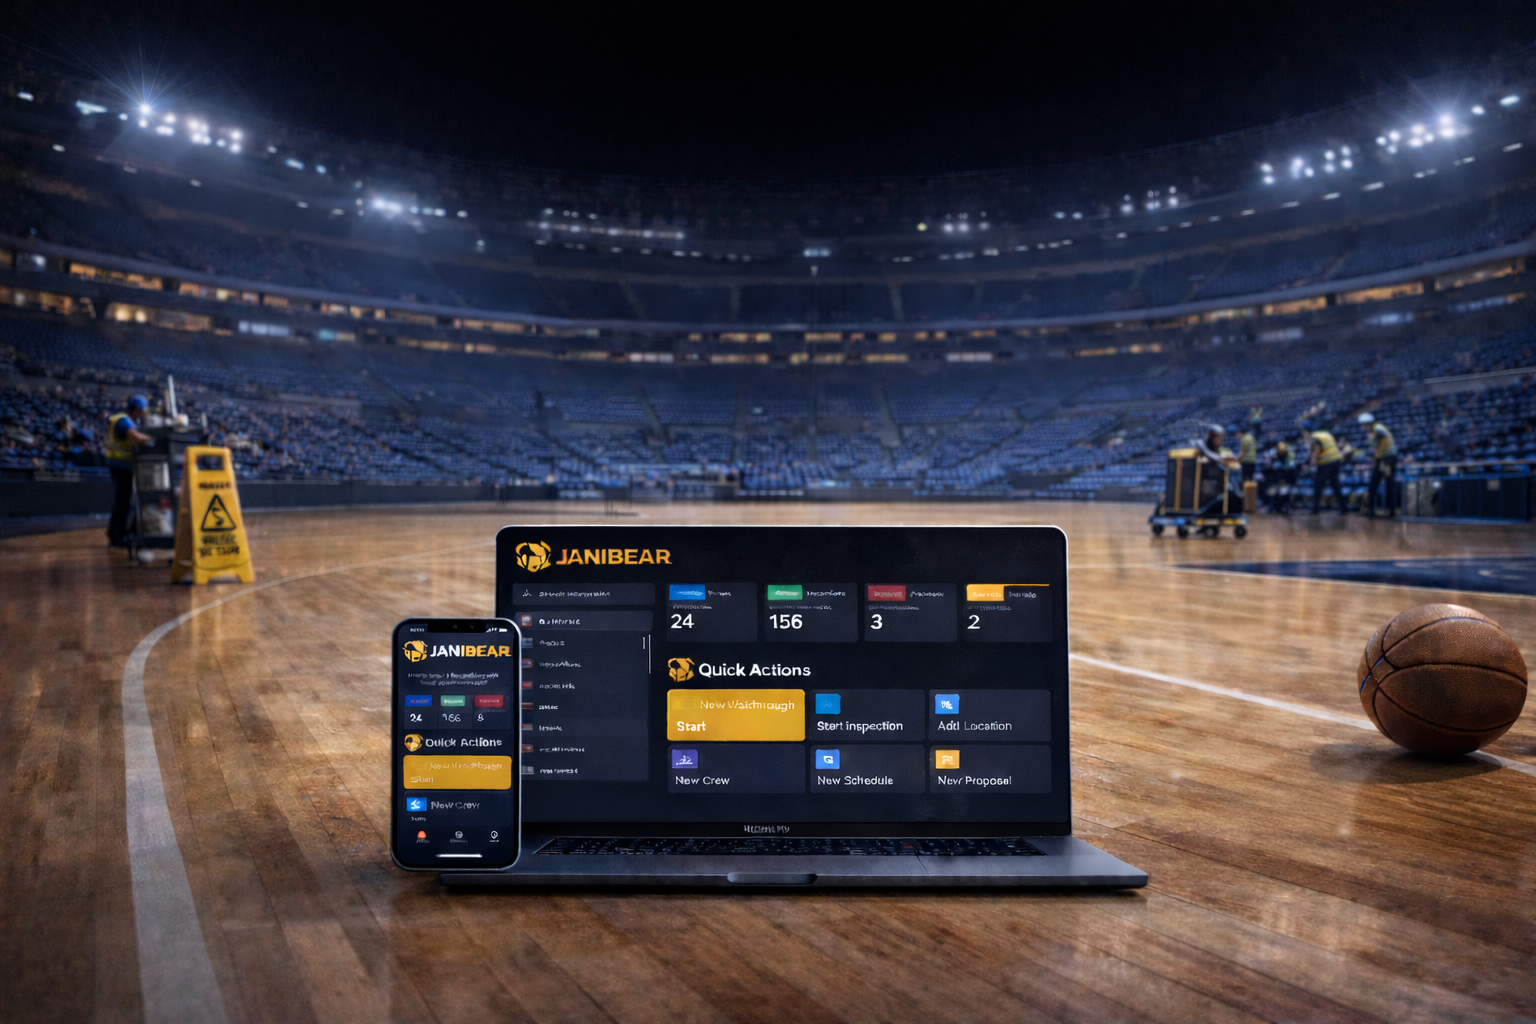
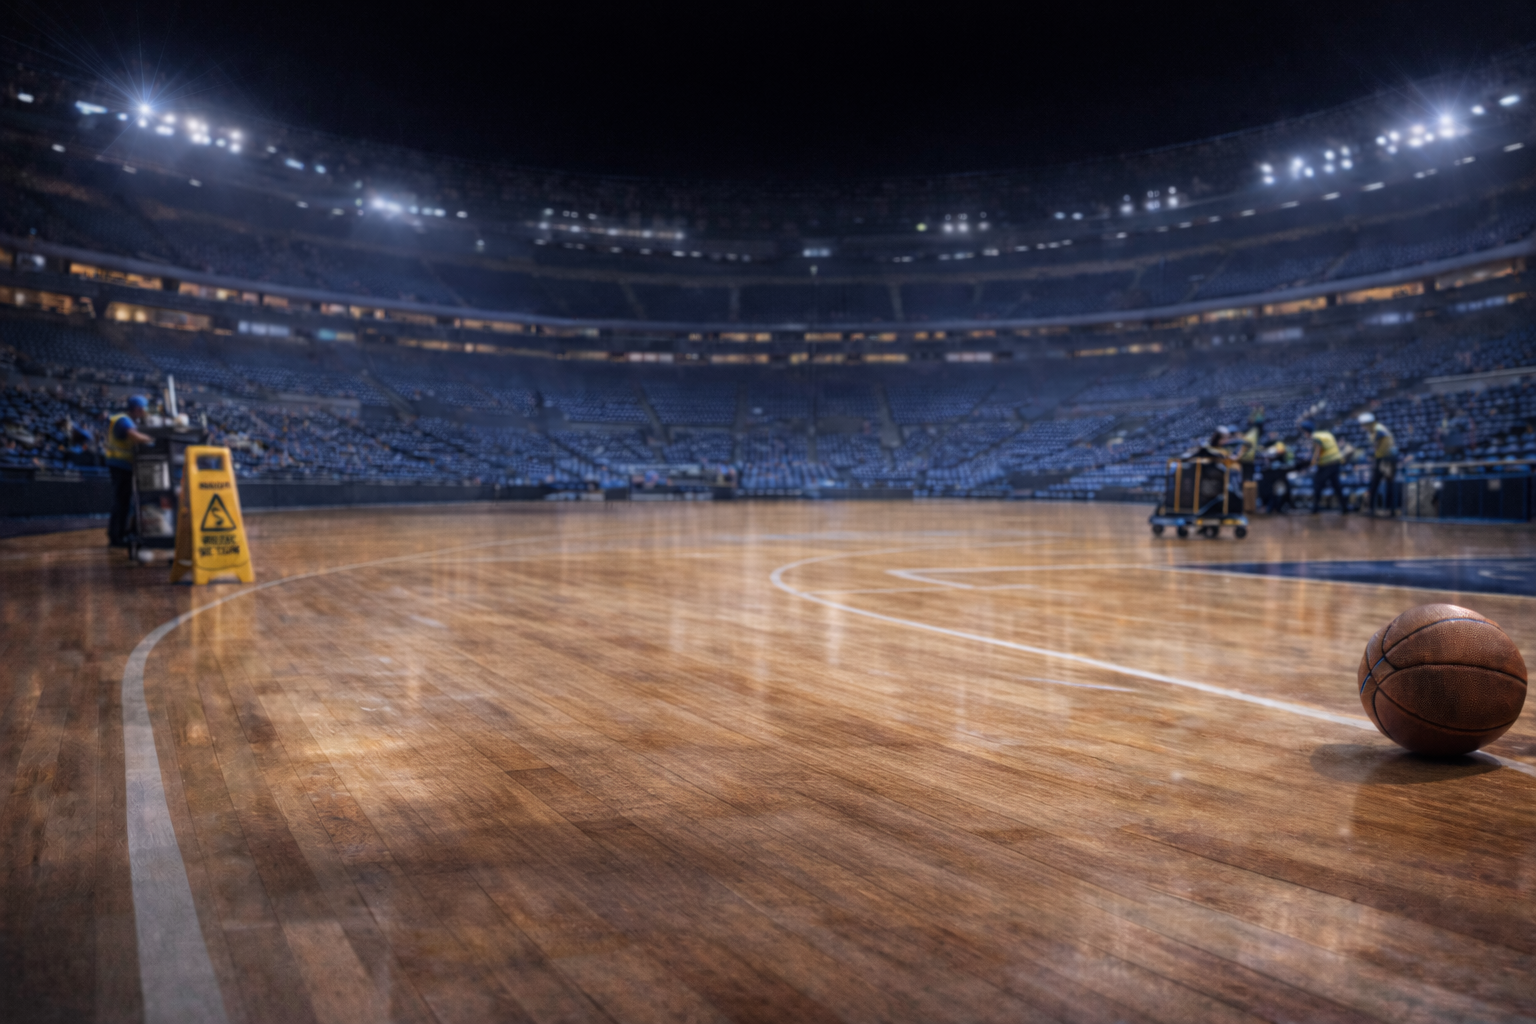
Deploy: 2026-02-20 07:13

Changed region(s): [[0.2188, 0.4375, 0.7812, 0.9062], [0.75, 0.4062, 0.875, 0.5], [0.9375, 0.5938, 0.9688, 0.625]]

diff --git a/src/app/page.tsx b/src/app/page.tsx
@@ -34,6 +34,7 @@ import {
 } from 'lucide-react';
 import { BrandName } from '@/components/ui/brand-name';
 import { HeroBackdropImage } from '@/components/landing/hero-backdrop-image';
+import { HeroCenterImage } from '@/components/landing/hero-center-image';
 
 export default function Home() {
   const [mounted, setMounted] = useState(false);
@@ -190,8 +191,8 @@ export default function Home() {
         </Link>
       </div>
 
-      {/* Hero: headline, device, CTAs — compact so Demo button is above the fold */}
-      <section className="relative w-full overflow-hidden pt-12 md:pt-16 pb-20 md:pb-24 min-h-[100vh] flex flex-col">
+      {/* Hero: headline, laptop (shifted up), CTA below laptop — all above the fold */}
+      <section className="relative w-full overflow-hidden pt-10 md:pt-14 pb-16 md:pb-20 min-h-[100vh] flex flex-col">
         {/* Backdrop: image + overlays so content owns the fold */}
         <div className="absolute inset-0 pointer-events-none" aria-hidden>
           <HeroBackdropImage />
@@ -203,8 +204,8 @@ export default function Home() {
         </div>
         <div className="absolute inset-0 pointer-events-none opacity-[0.06] hero-noise" aria-hidden />
 
-        <div className="relative container mx-auto px-4 flex-1 flex flex-col items-center justify-center py-4">
-          {/* Headline — hero dominates with clear value prop */}
+        <div className="relative container mx-auto px-4 flex-1 flex flex-col items-center justify-start pt-2 md:pt-4">
+          {/* Headline — compact */}
           <h1
             className={`text-center max-w-4xl mx-auto font-heading text-3xl sm:text-4xl md:text-5xl font-bold text-white tracking-tight leading-tight hero-headline transition-all duration-700 ${mounted ? 'opacity-100 translate-y-0' : 'opacity-0 translate-y-4'}`}
             style={{ transitionDelay: '0ms' }}
@@ -213,16 +214,24 @@ export default function Home() {
             <span className="hero-headline-gradient">Two Managers — Without the Payroll</span>
           </h1>
           <p
-            className={`text-center max-w-xl mx-auto mt-3 md:mt-4 text-zinc-300 text-base md:text-lg hero-subhead transition-all duration-700 ${mounted ? 'opacity-100 translate-y-0' : 'opacity-0 translate-y-4'}`}
+            className={`text-center max-w-xl mx-auto mt-2 md:mt-3 text-zinc-300 text-base md:text-lg hero-subhead transition-all duration-700 ${mounted ? 'opacity-100 translate-y-0' : 'opacity-0 translate-y-4'}`}
             style={{ transitionDelay: '40ms' }}
           >
             Schedule crews, inspect quality, and win more bids—all in one place.
           </p>
 
-          {/* CTAs — visible above the fold */}
+          {/* Laptop — shifted up so CTA fits above the fold */}
           <div
-            className={`flex flex-col sm:flex-row gap-4 sm:gap-6 justify-center items-center mt-8 md:mt-10 transition-all duration-700 ${mounted ? 'opacity-100 translate-y-0' : 'opacity-0 translate-y-4'}`}
-            style={{ transitionDelay: '120ms' }}
+            className={`w-full flex justify-center mt-2 md:mt-3 transition-all duration-700 ${mounted ? 'opacity-100 -translate-y-4 md:-translate-y-6' : 'opacity-0 translate-y-4'}`}
+            style={{ transitionDelay: '80ms' }}
+          >
+            <HeroCenterImage />
+          </div>
+
+          {/* CTAs — just below laptop, visible above the fold */}
+          <div
+            className={`flex flex-col sm:flex-row gap-4 sm:gap-6 justify-center items-center mt-3 md:mt-5 transition-all duration-700 ${mounted ? 'opacity-100 translate-y-0' : 'opacity-0 translate-y-4'}`}
+            style={{ transitionDelay: '160ms' }}
           >
             <Link href="/demo">
               <Button size="lg" className="landing-cta landing-cta-lg text-base font-semibold px-8 h-14 rounded-xl shadow-[0_4px_28px_rgba(250,204,21,0.45)] hover:shadow-[0_8px_36px_rgba(250,204,21,0.55)] transition-all hover:scale-[1.02]">
